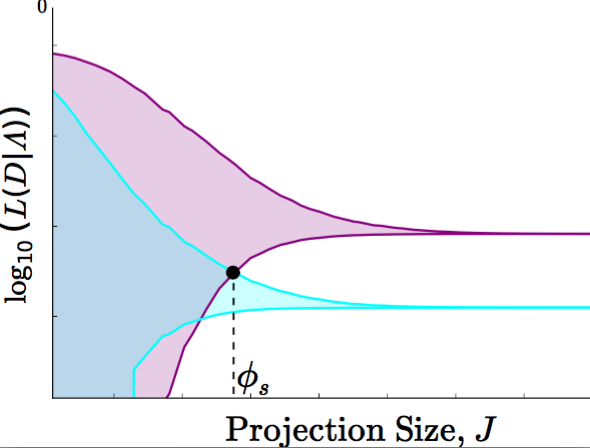
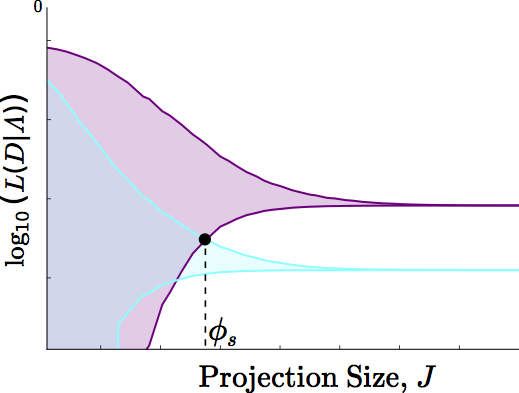
updated image using html.

diff --git a/research/index.md b/research/index.md
@@ -5,6 +5,13 @@ title: Zach Fox
 # Projects
 
 ## Finite State Projection Based Bounds on the Likelihood of Observing Single-Cell Data 
+New way: 
+<img src="{{ site.url }}/assets/samdps.png" alt="Drawing" width=200">
+
+
+
+
+Other way:
 
 ![alt text]({{ site.url }}/assets/samdps.png)
 
